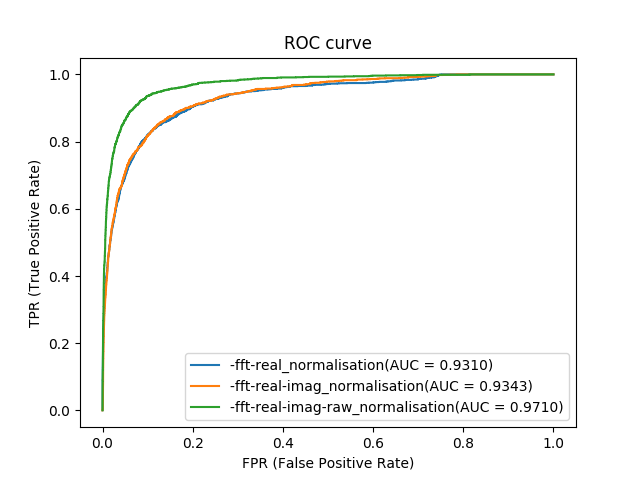
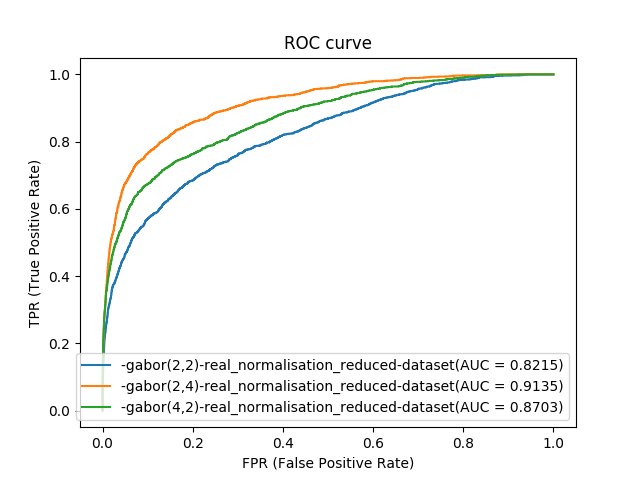
comparative 4

diff --git a/src/ROC_plot.py b/src/ROC_plot.py
@@ -39,9 +39,11 @@ algorithm = "cnn"
 #name_experiment_list = ["log_normalisation_patches-fft-real_normalisation", "log_normalisation_patches-fft-real-imag_normalisation","log_normalisation_patches-fft-real-imag-raw_normalisation","log_normalisation_patches-gabor(2,2)-real_normalisation","log_normalisation_patches-gabor(2,2)-real_normalisation_reduced-dataset","log_normalisation_patches-gabor(2,4)-real_normalisation_reduced-dataset", "log_normalisation_patches-gabor(4,2)-real_normalisation_reduced-dataset","log_normalisation_patches-gabor(2,2)-real-imag_normalisation_reduced-dataset","log_normalisation_patches-fft-abs_normalisation","log_normalisation_patches-fft-imag_normalisation", "log_normalisation_patches-fft-real-imag-raw_normalisation_reduced-dataset"]
 #name_experiment_list = ["log_normalisation_patches-fft-real_normalisation", "log_normalisation_patches-fft-real-imag_normalisation","log_normalisation_patches-fft-real-imag-raw_normalisation","log_normalisation_patches-gabor(2,2)-real_normalisation","log_normalisation_patches-gabor(2,2)-real_normalisation_reduced-dataset","log_normalisation_patches-gabor(2,4)-real_normalisation_reduced-dataset", "log_normalisation_patches-gabor(4,2)-real_normalisation_reduced-dataset","log_normalisation_patches-gabor(2,2)-real-imag_normalisation_reduced-dataset","log_normalisation_patches-fft-abs_normalisation","log_normalisation_patches-fft-imag_normalisation", "log_normalisation_patches-fft-real-imag-raw_normalisation_reduced-dataset"]
 # name_experiment_list=["log_normalisation_clahe","log_normalisation_patches-fft-real-imag-raw_normalisation","log_normalisation_patches-gabor(2,4)-real_normalisation_reduced-dataset"]
-name_experiment_list=["log_normalisation_patches-fft-real_normalisation","log_normalisation_patches-fft-real-imag_normalisation","log_normalisation_patches-fft-real-imag-raw_normalisation"]
+# name_experiment_list=["log_normalisation_patches-fft-real_normalisation","log_normalisation_patches-fft-real-imag_normalisation","log_normalisation_patches-fft-real-imag-raw_normalisation"]
 # name_experiment_list = ["log_normalisation_patches-gabor(2,2)-real_normalisation","log_normalisation_patches-gabor(2,2)-real_normalisation_reduced-dataset","log_normalisation_patches-gabor(2,4)-real_normalisation_reduced-dataset", "log_normalisation_patches-gabor(4,2)-real_normalisation_reduced-dataset","log_normalisation_patches-gabor(2,2)-real-imag_normalisation_reduced-dataset","log_normalisation_patches-fft-abs_normalisation","log_normalisation_patches-fft-imag_normalisation", "log_normalisation_patches-fft-real-imag-raw_normalisation_reduced-dataset"]
 # plt.figure(0).clf()
+name_experiment_list=["log_normalisation_patches-gabor(2,2)-real_normalisation_reduced-dataset","log_normalisation_patches-gabor(2,4)-real_normalisation_reduced-dataset", "log_normalisation_patches-gabor(4,2)-real_normalisation_reduced-dataset"]
+
 # plt.title('ROC curve')
 # plt.xlabel("FPR (False Positive Rate)")
 # plt.ylabel("TPR (True Positive Rate)")
